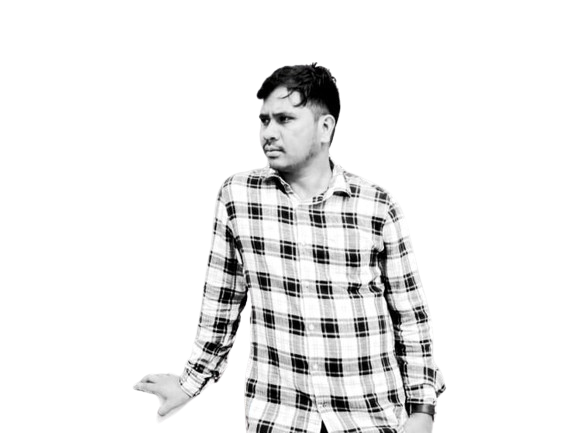
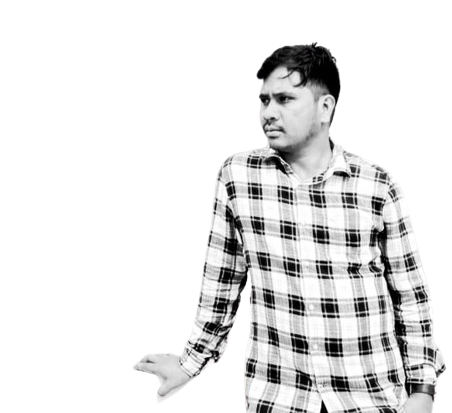
Hero section modified

diff --git a/index.html b/index.html
@@ -56,7 +56,7 @@
 		<a href="#" class="js-colorlib-nav-toggle colorlib-nav-toggle" data-toggle="collapse" data-target="#navbar" aria-expanded="false" aria-controls="navbar"><i></i></a>
 		<aside id="colorlib-aside" role="complementary" class="border js-fullheight">
 			<div class="text-center">
-				<div class="author-img" style="background-image: url(./images/profile_bg.png);"></div>
+				<div class="author-img" style="background-image: url(./images/profile1.jpeg)";></div>
 				<h1 id="colorlib-logo"><a href="index.html">Anil Roy</a></h1>
 				<span class="position"><a href="#">Web Developer | Mentor</a> in India</span>
 			</div>
@@ -94,7 +94,7 @@ Copyright <script>document.write(new Date().getFullYear());</script> All rights 
 			<section id="colorlib-hero" class="js-fullheight" data-section="home">
 				<div class="flexslider js-fullheight">
 					<ul class="slides">
-				   	<li style="background-image: url(images/img_bg_1.jpg);">
+				   	<li style="background-image: url(./images/profile_f.png);">
 				   		<div class="overlay"></div>
 				   		<div class="container-fluid">
 				   			<div class="row">
@@ -102,7 +102,7 @@ Copyright <script>document.write(new Date().getFullYear());</script> All rights 
 					   				<div class="slider-text-inner js-fullheight">
 					   					<div class="desc">
 						   					<h1>Hi! <br>I'm Anil</h1>
-						   					<h2>Help peoples to launch their business online and boost their Business</h2>
+						   					<h2>Help peoples to launch their  business online and boost their Business</h2>
 												<p><a class="btn btn-primary btn-learn">Download CV <i class="icon-download4"></i></a></p>
 											</div>
 					   				</div>
@@ -110,14 +110,14 @@ Copyright <script>document.write(new Date().getFullYear());</script> All rights 
 					   		</div>
 				   		</div>
 				   	</li>
-				   	<li style="background-image: url(./images/profile.jpeg); width:auto; height: 1100px;">
+				   	<li style="background-image: url(./images/img_bg_1.jpg);">
 				   		<div class="overlay"></div>
 				   		<div class="container-fluid">
 				   			<div class="row">
 					   			<div class="col-md-6 col-md-offset-3 col-md-pull-3 col-sm-12 col-xs-12 js-fullheight slider-text">
 					   				<div class="slider-text-inner">
 					   					<div class="desc">
-						   					<h1>I am <br>a Web Developer</h1>
+						   					<h1 style="color: #18160fd7;">I am <br>a Web Developer</h1>
 												<h2>Help peoples to launch their business online and boost their Business</h2>
 												<p><a class="btn btn-primary btn-learn">View Portfolio <i class="icon-briefcase3"></i></a></p>
 											</div>

diff --git a/css/style.css b/css/style.css
@@ -235,7 +235,7 @@ figure {
   background: #fff url(../images/loader.gif) no-repeat center center;
   width: 100%;
   float: left;
-  margin-bottom: 10em;
+  margin-bottom: 3em;
   clear: both; }
   #colorlib-hero .flexslider {
     border: none;
@@ -1090,7 +1090,7 @@ body.offcanvas {
     display: -moz-inline-stack;
     display: inline-block;
     zoom: 1;
-    *display: inline; }
+    *{display:inline }
     .colorlib-social li a {
       font-size: 22px;
       color: #000;
@@ -1098,7 +1098,7 @@ body.offcanvas {
       display: -moz-inline-stack;
       display: inline-block;
       zoom: 1;
-      *display: inline;
+      *{display: inline;
       -webkit-border-radius: 7px;
       -moz-border-radius: 7px;
       -ms-border-radius: 7px;
@@ -1314,7 +1314,7 @@ body.offcanvas {
     display: -moz-inline-stack;
     display: inline-block;
     zoom: 1;
-    *display: inline;
+    *{display: inline;
     width: 30px;
     height: 2px;
     color: #000;
@@ -1425,5 +1425,6 @@ body.offcanvas {
 .col-padding {
   padding: 10px !important; }
 
-.js .animate-box {
-  opacity: 0; }
+  .js-animate-box{
+    opacity: 0; 
+  }
